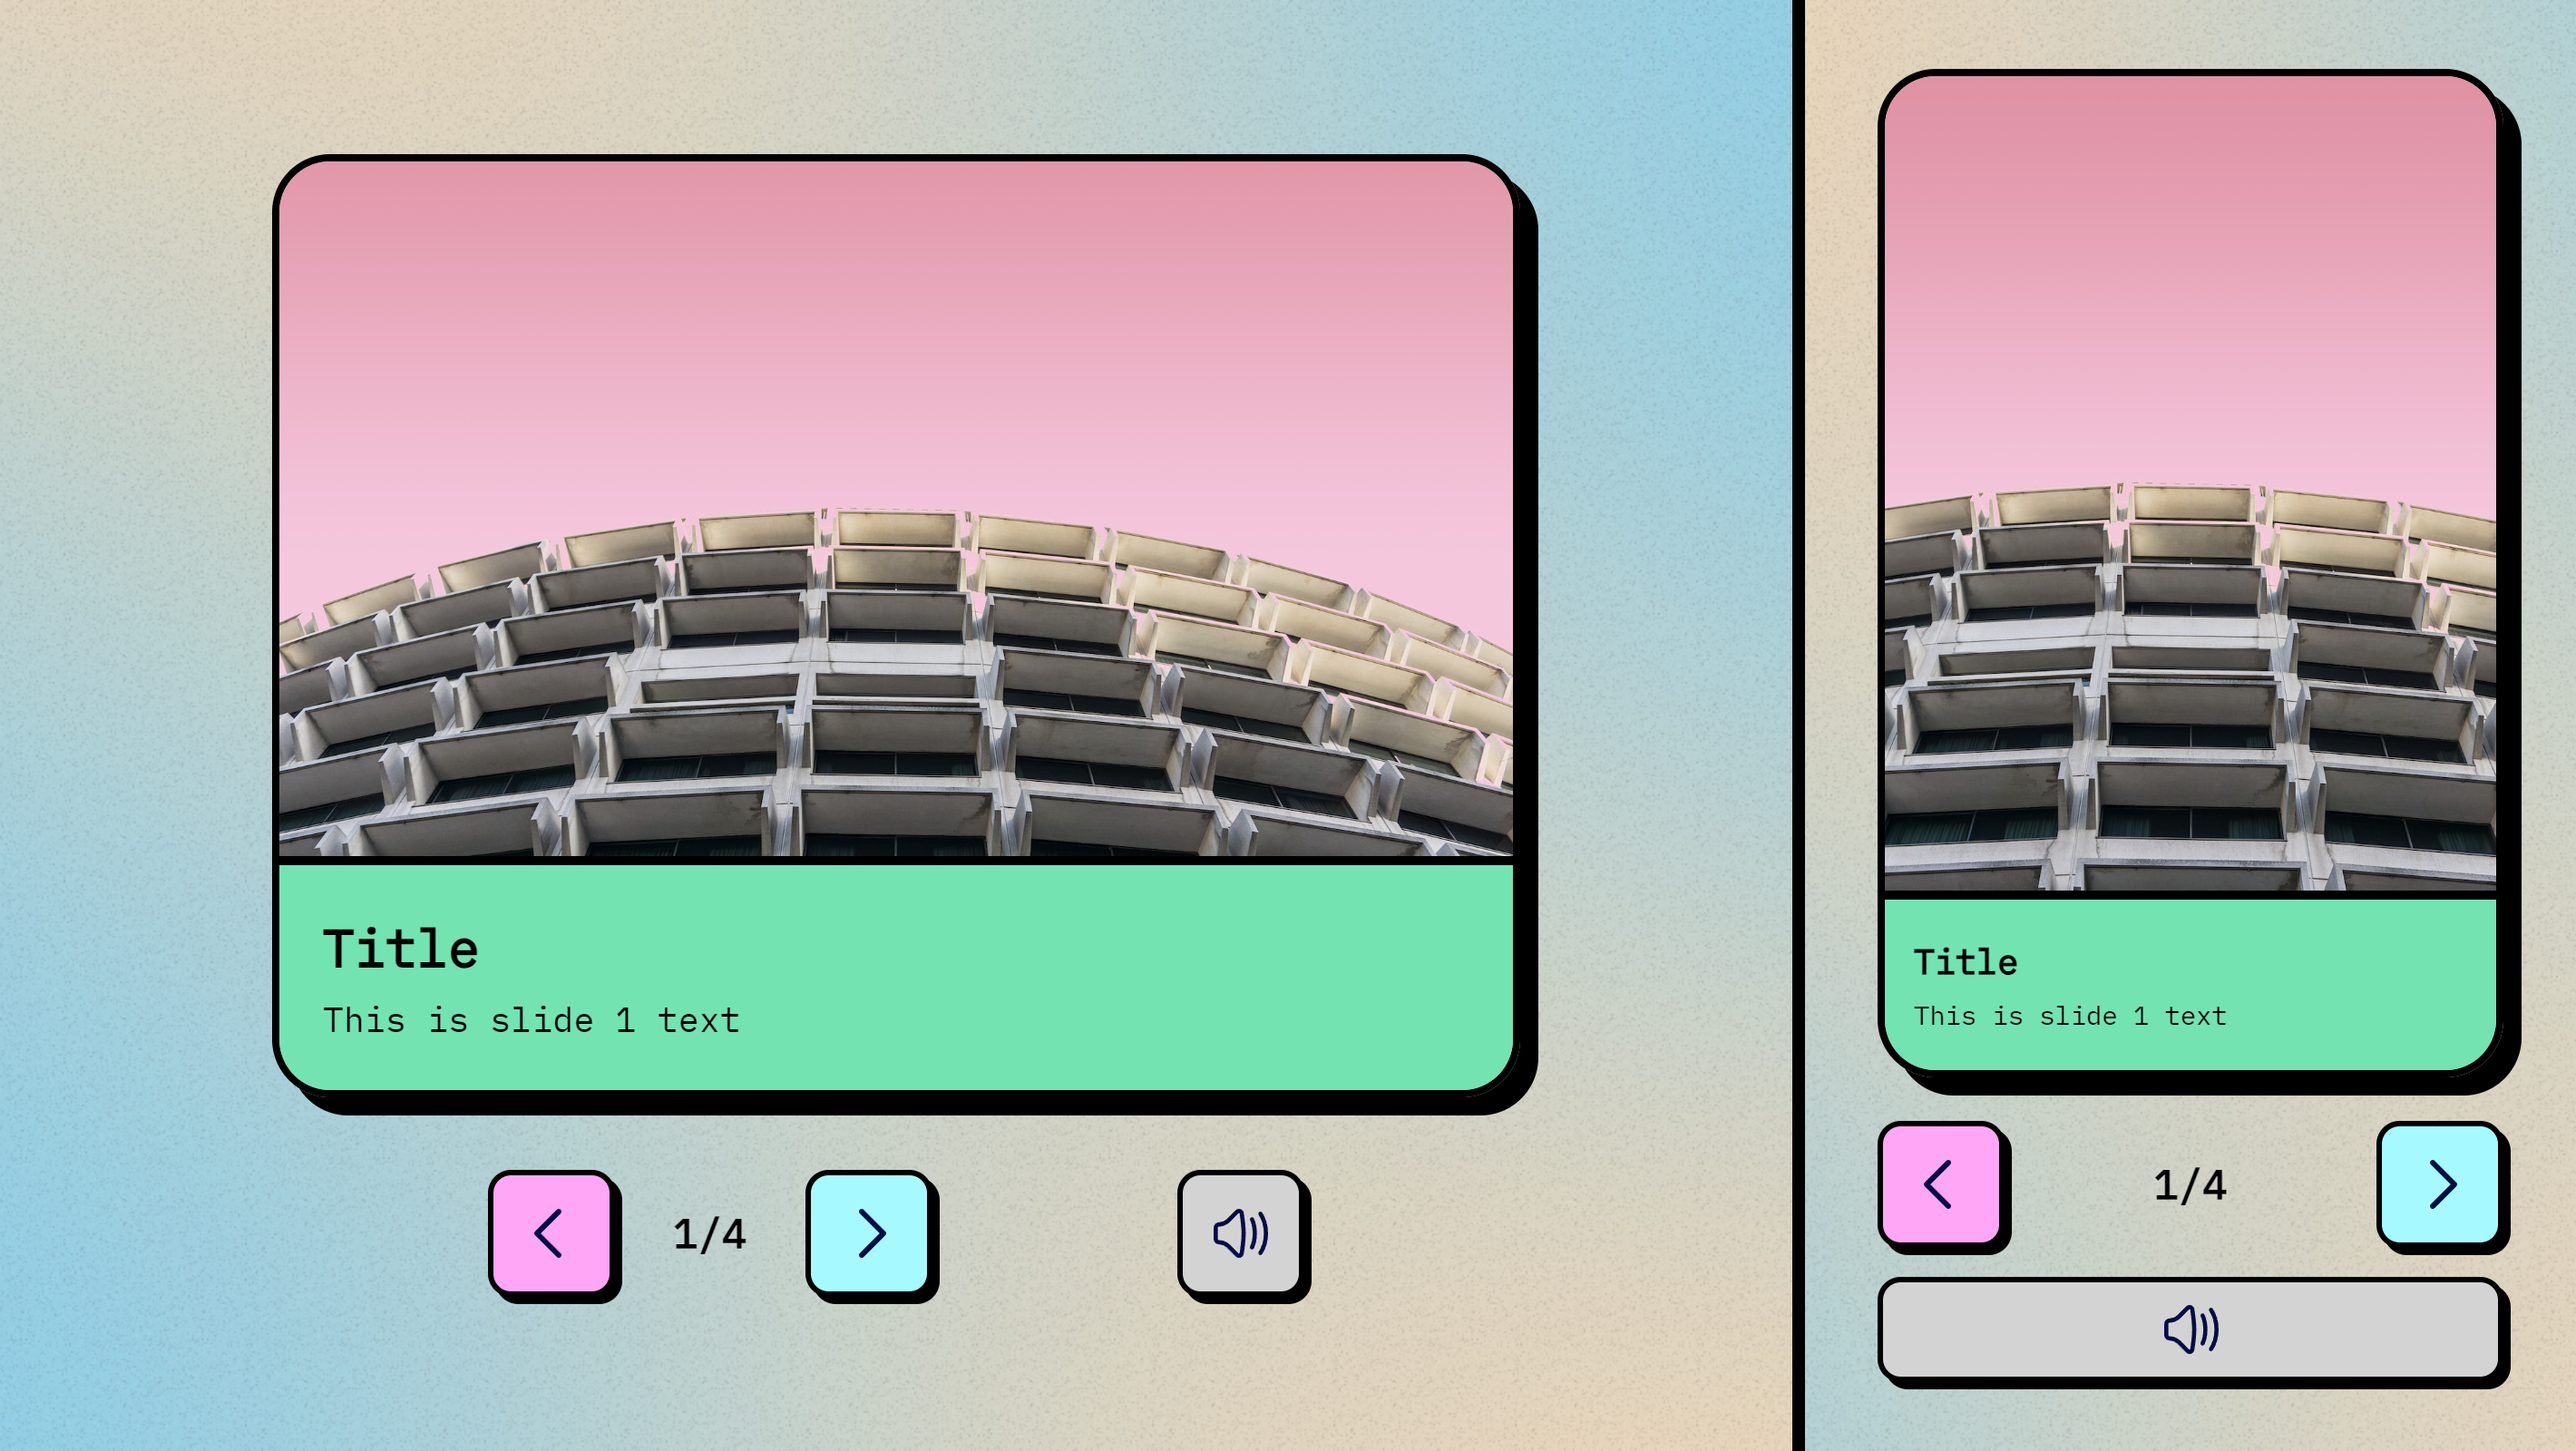
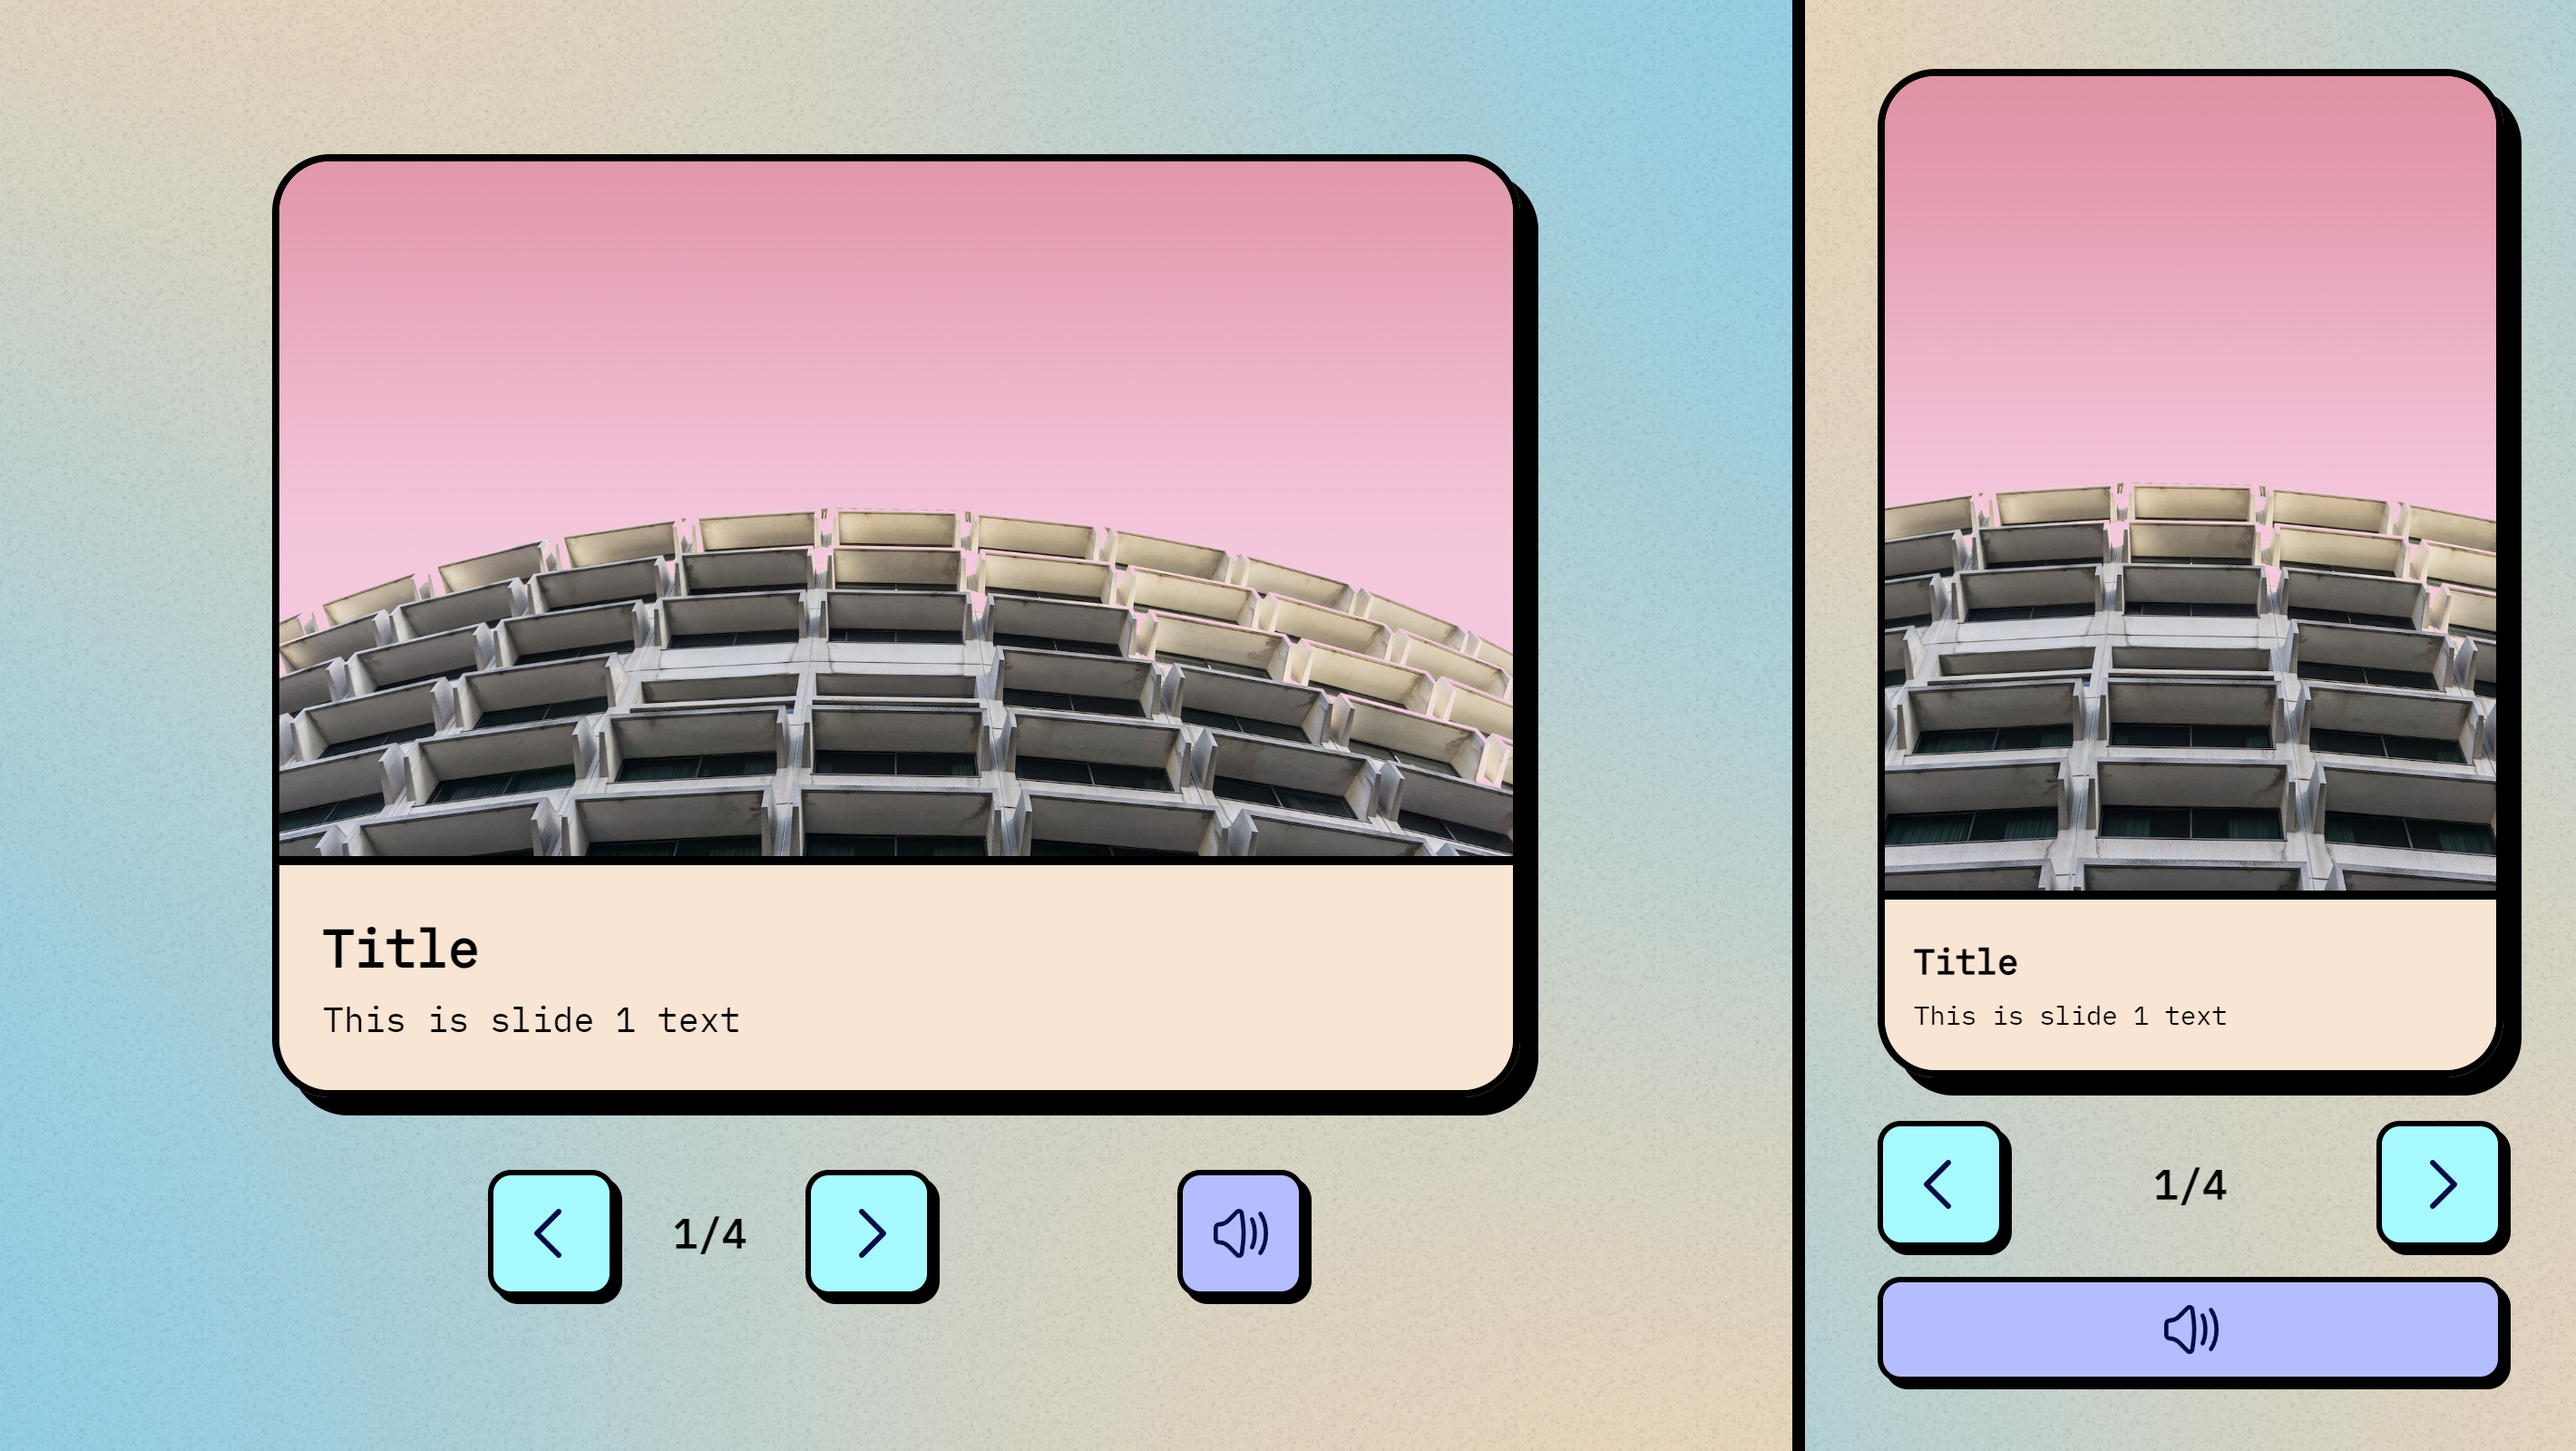
update screenshot

diff --git a/src/components/SliderControl/SliderControl.tsx b/src/components/SliderControl/SliderControl.tsx
@@ -22,7 +22,7 @@ export default function SliderControl({
     <div className="control__container" data-testid="slider-control">
       <IconButton
         onClick={onPrev}
-        color="#FFA6F6"
+        color="#A6FAFF"
         iconSrc={ArrowLeftIcon}
         iconStyle={{ width: 48 }}
       />

diff --git a/src/components/Slider/Slider.tsx b/src/components/Slider/Slider.tsx
@@ -66,6 +66,7 @@ export default function Slider({ slides }: SliderProps) {
               playAudio();
               toggleMute();
             }}
+            color="#B4BDFF"
             iconSrc={!isMuted ? VolumeHighIcon : VolumeIcon}
             iconStyle={{
               width: 48,

diff --git a/src/components/Slide/Slide.css b/src/components/Slide/Slide.css
@@ -33,8 +33,8 @@
 .slide__content {
   padding: 1.2rem 1rem;
   border-top: 5px solid black;
-
-  background-color: #73e3b2;
+  background-color: #f8e5d4;
+  /* background-color: #73e3b2; */
 }
 
 .slide__title {
